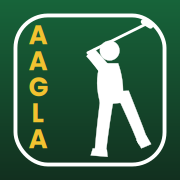
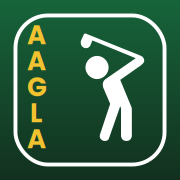
Use a real pictogram for the golfer instead of drawing one
The hand-drawn figure read as a stick figure, which is the honest verdict:
limbs made of tapered strokes have no weight to them, and no amount of
nudging control points was going to fix that at 32 pixels.

Replaced with Mapbox's `golf` pictogram from Maki, vendored into the
generator rather than fetched at build time so the script needs no network
and the artwork cannot change under us. CC0, so nothing is owed, but the
credit sits in the file header regardless.

It was chosen over four alternatives shown side by side in the badge --
three of them flattened emoji, which have real anatomy but read as emoji
and turn to mush below about 96px. The pictogram is the only one built for
this job: heavy strokes, one confident diagonal through the club, and a
silhouette that still resolves in a browser tab.

Same badge around it, unchanged: green field, inset keyline sized to
survive the iOS superellipse, AAGLA stacked down the left in gold. Every
size re-verified under the mask it will actually get, including a circle
crop for the Android maskable variant.

Claude-Session: https://claude.ai/code/session_01DKrjjE6Xnr64b7pT32gTnG

diff --git a/scripts/make-icons.py b/scripts/make-icons.py
@@ -2,27 +2,32 @@
 """
 Generate the AAGLA app icon set.
 
-The mark is a badge, shaped after the tour logo Josh sent as reference: an
-upright rounded field, an inset keyline, the wordmark stacked down one
-side, and a golfer at the top of the follow-through filling the rest. The
-colours are the league's -- fairway green in place of the reference's
-blue, gold in place of its red.
+A badge, shaped after the tour logo Josh sent as reference: an upright
+rounded field, an inset keyline, the wordmark stacked down one side, and a
+golfer filling the rest. Colours are the league's -- fairway green in place
+of the reference's blue, gold in place of its red.
 
-The golfer is assembled from tapered paths and two stroked lines rather
-than one hand-authored outline. It flattens to the same silhouette and is
-far easier to adjust: draw order hides every joint under the piece drawn
-after it, so a change of pose means moving a point rather than re-cutting
-a curve.
+The golfer is Mapbox's `golf` pictogram from the Maki icon set, released
+into the public domain under CC0, vendored below rather than fetched at
+build time so this script has no network dependency and the artwork cannot
+change under us. CC0 asks for nothing, but the credit belongs here anyway.
 
-Two variants come out of the same drawing:
+  https://github.com/mapbox/maki -- CC0 1.0
 
-  badge -- the whole design. Used wherever the icon is rendered large
-           enough to read five stacked letters: the iOS home screen at
-           180px and the Android manifest at 192 and 512.
-  mark  -- the golfer alone, enlarged. Used for the 32px browser tab,
-           where the wordmark and keyline collapse into noise, and for
-           the Android maskable icon, whose corners a launcher may crop
-           to any shape it likes.
+It replaced a hand-drawn figure, which read as a stick figure at every size
+that mattered. A pictogram drawn on a 15-unit grid carries the weight and
+the confident diagonals that survive being shrunk to a favicon; a drawing
+made of tapered limbs does not.
+
+Two variants come out of the same artwork:
+
+  badge -- the whole design. Used wherever the icon renders large enough to
+           read five stacked letters: iOS at 180px, the manifest at 192
+           and 512.
+  mark  -- the golfer alone, enlarged. Used for the 32px browser tab, where
+           the wordmark and keyline collapse into a smudge, and for the
+           Android maskable icon, whose corners a launcher may crop to any
+           shape it likes.
 
 Run: python3 scripts/make-icons.py
 """
@@ -32,7 +37,7 @@ from pathlib import Path
 import cairosvg
 
 # The league's greens, from tailwind.config.ts, plus a gold that clears
-# contrast against both. A deep field so a white silhouette holds its edge
+# contrast against both. A deep field, so a white silhouette holds its edge
 # at any size.
 GREEN_DARK = '#12301f'
 GREEN = '#17643a'
@@ -41,56 +46,32 @@ WHITE = '#FFFFFF'
 
 S = 512  # master canvas; everything below is in these units
 
+# Maki's `golf`, verbatim. Drawn on a 15x15 grid, hence the coarse-looking
+# numbers -- it is still vector and still scales cleanly.
+GOLFER = (
+    '<path d="M3.4 1.1v.2c0 .4.3.7.7.7c.3 0 .5-.2.6-.5l.2-.5l5.6 2.3L6.6 6'
+    'c-.4.3-.4.7-.3 1.1l.9 2.1l-1.3 3.9c-.2.5.2.9.6.9c.3 0 .5-.1.6-.5l1.4-4'
+    'l.1.3v3.5s0 .7.7.7s.7-.7.7-.7V10c0-.2 0-.3-.1-.5L8.5 6.1l2.7-1.9'
+    'c.2-.2.4-.3.4-.6s-.2-.5-.4-.6L4 .1c-.088 0-.118.018-.2.1zM5.5 3'
+    'C4.7 3 4 3.7 4 4.5S4.7 6 5.5 6S7 5.3 7 4.5S6.3 3 5.5 3"/>'
+)
+GOLFER_GRID = 15.0
 
-def golfer() -> str:
-    """Right-handed golfer, top of the follow-through, facing left.
 
-    Draw order is the trick to a clean silhouette: club, then limbs, then
-    the torso over the top of where they meet, then the head. Every joint
-    is hidden under the piece drawn after it, so there are no seams to
-    tidy and the whole thing flattens to one shape.
-    """
-    return f'''
-    <g fill="{WHITE}" stroke="{WHITE}" stroke-linecap="round"
-       stroke-linejoin="round">
-      <!-- Club: out of the hands at a shallower angle than the forearms,
-           so the two read as two things rather than one long bar. -->
-      <path d="M 250 150 L 416 68" stroke-width="8" fill="none"/>
-      <path d="M 408 62 L 428 74" stroke-width="15" fill="none"/>
-
-      <!-- Legs, tapered so the thigh carries the weight and the ankle
-           doesn't. Both start high enough to finish under the torso. -->
-      <path d="M 288 262 C 280 320 274 374 270 424
-               L 302 428 C 308 376 316 322 326 266 Z"/>
-      <path d="M 328 260 C 350 310 370 350 394 410
-               L 420 398 C 400 342 382 300 366 258 Z"/>
-      <!-- Front foot flat; back foot up on the toe, which is where a
-           follow-through actually leaves you. -->
-      <path d="M 264 422 L 304 426 L 306 446 L 258 442 Z"/>
-      <path d="M 388 398 L 416 386 L 430 410 L 402 422 Z"/>
-
-      <!-- Arms: shoulder to a bent elbow to both hands on the grip, wide
-           enough to read as arms at icon size. -->
-      <path d="M 288 210 C 272 190 262 176 248 158
-               L 268 138 C 286 158 306 180 322 200 Z"/>
-      <path d="M 296 224 C 280 200 264 180 246 160
-               L 258 146 C 282 168 308 194 324 216 Z"/>
-
-      <!-- Torso last, so it covers every joint underneath. Narrow at the
-           waist, hips driven through, back arched. -->
-      <path d="M 286 180 C 272 218 274 254 286 298
-               L 348 292 C 354 246 346 208 336 180 Z"/>
-
-      <!-- Head, turned to watch the ball. -->
-      <circle cx="312" cy="144" r="28"/>
-    </g>'''
+def golfer(size: float, cx: float, cy: float) -> str:
+    """The pictogram, scaled to `size` units and centred on (cx, cy)."""
+    k = size / GOLFER_GRID
+    return (
+        f'<g transform="translate({cx - size / 2},{cy - size / 2}) scale({k})" '
+        f'fill="{WHITE}">{GOLFER}</g>'
+    )
 
 
 def wordmark() -> str:
     """AAGLA stacked down the left, the way the reference runs TOUR."""
     top, step = 126, 74
-    return '\n'.join(
-        f'<text x="108" y="{top + i * step}" text-anchor="middle" '
+    return '\n  '.join(
+        f'<text x="104" y="{top + i * step}" text-anchor="middle" '
         f'font-family="Poppins" font-weight="700" font-size="74" '
         f'fill="{GOLD}">{c}</text>'
         for i, c in enumerate('AAGLA')
@@ -113,47 +94,42 @@ def field() -> str:
 def badge_svg() -> str:
     """The full design.
 
-    The keyline's inset and corner radius are set generously so it survives
-    the superellipse iOS crops icons to -- a keyline tight to the edge
-    loses its corners to that mask and reads as four disconnected lines.
+    The keyline's inset and corner radius are generous on purpose: tight to
+    the edge, the superellipse iOS crops icons to eats its corners and it
+    reads as four disconnected lines rather than a border.
     """
     return f'''<svg xmlns="http://www.w3.org/2000/svg" width="{S}" height="{S}"
      viewBox="0 0 {S} {S}">{field()}
   <rect x="44" y="44" width="{S - 88}" height="{S - 88}" rx="92"
         fill="none" stroke="{WHITE}" stroke-width="11"/>
   {wordmark()}
-  {golfer()}
+  {golfer(size=330, cx=320, cy=258)}
 </svg>'''
 
 
-def mark_svg(scale: float = 1.0) -> str:
-    """The golfer alone, centred and enlarged.
+def mark_svg(size: float = 400) -> str:
+    """The golfer alone, centred.
 
-    `scale` shrinks the figure for the Android maskable icon, which a
-    launcher may crop to a circle: everything has to sit inside the middle
-    80% or risk losing a foot to a rounded corner.
+    Smaller for the Android maskable icon, which a launcher may crop to a
+    circle: everything has to sit inside the middle 80%.
     """
-    # The figure occupies roughly x 240-430, y 60-450 on the master canvas.
-    cx, cy = 334, 256
-    zoom = 1.18 * scale
     return f'''<svg xmlns="http://www.w3.org/2000/svg" width="{S}" height="{S}"
      viewBox="0 0 {S} {S}">{field()}
-  <g transform="translate({S / 2}, {S / 2}) scale({zoom}) translate({-cx}, {-cy})">
-    {golfer()}
-  </g>
+  {golfer(size=size, cx=S / 2, cy=S / 2)}
 </svg>'''
 
 
 def render(svg: str, px: int, out: str) -> None:
     Path(out).parent.mkdir(parents=True, exist_ok=True)
-    cairosvg.svg2png(bytestring=svg.encode(), write_to=out,
-                     output_width=px, output_height=px)
+    cairosvg.svg2png(
+        bytestring=svg.encode(), write_to=out, output_width=px, output_height=px
+    )
 
 
 def main() -> None:
     badge = badge_svg()
 
-    # iOS reads this for "Add to Home Screen" and supplies its own rounded
+    # iOS reads this for "Add to Home Screen" and applies its own rounded
     # mask, so the art is full-bleed square -- pre-rounding it would show
     # the mask twice.
     render(badge, 180, 'app/apple-icon.png')
@@ -163,12 +139,14 @@ def main() -> None:
     # The browser tab. Five stacked letters at 32px is a smudge; the golfer
     # alone still reads as something.
     render(mark_svg(), 32, 'app/icon.png')
-    render(mark_svg(0.74), 512, 'public/icon-512-maskable.png')
+    render(mark_svg(size=300), 512, 'public/icon-512-maskable.png')
 
     Path('public/icon.svg').write_text(badge)
 
-    print('wrote app/apple-icon.png, app/icon.png, '
-          'public/icon-{192,512,512-maskable}.png, public/icon.svg')
+    print(
+        'wrote app/apple-icon.png, app/icon.png, '
+        'public/icon-{192,512,512-maskable}.png, public/icon.svg'
+    )
 
 
 if __name__ == '__main__':
